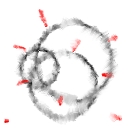
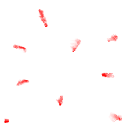
hands

Changed region(s): [[0.125, 0.125, 0.9062, 0.9688]]

diff --git a/Assets/Characters/Player/player.js b/Assets/Characters/Player/player.js
@@ -27,6 +27,14 @@ class Sword extends Dynamic
 
         this.player = player;
 
+        this.idle = true;
+        this.delay = 4;
+        this.delayC = 0;
+        this.frame = 0;
+        this.roS = {x:0,y:0}
+        this.sinRo = Math.PI/3;
+        this.sinRoS = Math.PI/3*2;
+
         this.stabbing = false;
         this.stabbingTime = this.stabbingTimeLeft = 4;
         this.stabCooldown = this.stabCooling = 8;
@@ -211,6 +219,7 @@ class Sword extends Dynamic
 
     charge()
     {
+        this.idle = false;
         if (this.stabCharge < this.maxStabCharge)
         {
             this.stabCharge++;
@@ -385,8 +394,9 @@ class Sword extends Dynamic
             this.t.o = this.st.o = {x:-0.5,y:-1};
             this.justStoppedStabbing = false;
         }
-        this.r = this.player.frozenDirection * 70;
-        this.t.x = this.player.t.x + -this.player.frozenDirection * 64;
+        this.idle = true;
+        this.r = this.player.frozenDirection * 80;
+        this.t.x = this.player.t.x + -this.player.frozenDirection * 160;
         this.t.y = this.player.t.y + 64;
     }
     render()
@@ -420,6 +430,43 @@ class Sword extends Dynamic
 
         if (this.renderMore != undefined)
             this.renderMore();
+    }
+
+    renderMore()
+    {
+        this.ro.y = (Math.sin(this.sinRo)-0.5)*4;
+        this.roS.y = (Math.sin(this.sinRoS)-0.5)*4;
+        this.sinRo+=Math.PI/engine.fps;
+        this.sinRoS+=Math.PI/engine.fps;
+
+        // Hand Shield
+        const transformS = 
+        {
+            x:this.t.x + (this.chargingStab ? 108*this.player.frozenDirection : (this.idle ? 116*this.player.frozenDirection : 0))+this.ro.x,
+            y:this.t.y - (this.chargingStab ? 48 : (this.idle ? -16 : 0))+this.roS.y,
+            w:64/2,
+            h:128/2,
+            o:this.st.o
+        };
+        display.drawImg(currentCtx, transformS, this.player.frameSet[this.frame], this.player.alpha, this.player.r, this.player.flip.x, this.player.flip.y);
+
+        // Hand Sword
+        const transform = 
+        {
+            x:this.t.x + (this.idle ? 216*this.player.frozenDirection : 0),
+            y:this.t.y - (this.idle ? 8 : 32)+this.ro.y,
+            w:64/2,
+            h:128/2,
+            o:this.st.o
+        };
+        display.drawImg(currentCtx, transform, this.player.frameSet[this.frame], this.player.alpha, this.player.r, this.player.flip.x, this.player.flip.y);
+
+        this.delayC++;
+        if (this.delayC == this.delay*engine.fps/30)
+        {
+            this.frame = (this.frame+1)%this.player.frameSet.length;
+            this.delayC = 0;
+        }
     }
 }
 
@@ -665,6 +712,7 @@ class Player extends Physics
     {
         if (this.hp <= 0 && !this.dying)
         {
+            this.dmg(64, {x:0,y:0},true);
             this.Death();
         }
 
@@ -765,7 +813,6 @@ class Player extends Physics
 
         if (this.dying)
         {
-            console.log(this.alpha)
             this.alpha *= 0.99;
             if (this.alpha < 0.1) this.alpha = 0;
             return;

diff --git a/Engine/extra.js b/Engine/extra.js
@@ -67,6 +67,10 @@ class Blood extends Physics
         this.t.w+=this.t.w*size;
         this.t.h+=this.t.h*size;
         this.t.w = this.t.h = this.t.w + (Math.random()-0.5)*this.t.w;
+        this.w = this.t.w*1;
+        this.h = this.t.h*1;
+        this.t.w = 0;
+        this.t.h = 0;
         this.r = Math.random()*360;
         this.alpha = 0.2;
     }
@@ -75,10 +79,17 @@ class Blood extends Physics
     {
         this.gravityMultiplier = 0;
         this.v = {x:0,y:0};
-        this.t.h *= 0.5;
-        this.t.w *= 0.5;
+        this.h *= 0.5;
+        this.w *= 0.5;
         this.active = false;
-        display.drawImg(BLOODCTX, this.t, this.c, this.alpha, this.r, this.flip.x, this.flip.y);
+        display.drawImg(BLOODCTX,
+        {
+            x:this.t.x,
+            y:this.t.y,
+            w:this.w,
+            h:this.h,
+            o:this.t.o
+        }, this.c, this.alpha, this.r, this.flip.x, this.flip.y);
     }
 
     collideTopA({y,h,o})
@@ -99,7 +110,13 @@ class Blood extends Physics
     }
     render()
     {
-        display.drawImg(currentCtx, this.t, this.c, this.alpha, this.r, this.flip.x, this.flip.y);
+        display.drawImg(currentCtx, {
+            x:this.t.x,
+            y:this.t.y,
+            w:this.w,
+            h:this.h,
+            o:this.t.o
+        }, this.c, this.alpha, this.r, this.flip.x, this.flip.y);
     }
 }
 

diff --git a/Engine/engine.js b/Engine/engine.js
@@ -1,4 +1,4 @@
-function drawSword()
+function drawSword(dmg)
 {
     display.drawImg(currentCtx,
         {
@@ -18,7 +18,10 @@ function drawSword()
         h:PLAYER.sword.st.h,
         o:PLAYER.sword.st.o
     }, PLAYER.sword.c, 1, PLAYER.sword.r);
-    display.render(); 
+    display.render();
+
+    display.stacks += 12 * (dmg/500);
+    shakeReset = 32 * (dmg/500);
 }
 
 class Engine
@@ -46,7 +49,7 @@ class Engine
                 this.update();
                 if (this.stopQueued != 0)
                 {
-                    drawSword();
+                    drawSword(this.stopQueued);
                     this.stop();
                     setTimeout(() => {
                         this.start();
@@ -64,7 +67,7 @@ class Engine
                 this.update();
                 if (this.stopQueued != 0)
                 {
-                    drawSword();
+                    drawSword(this.stopQueued);
                     this.stop();
                     setTimeout(() => {
                         this.start();

diff --git a/Assets/Characters/Boss/Maurice/maurice.js b/Assets/Characters/Boss/Maurice/maurice.js
@@ -217,6 +217,7 @@ class Maurice extends Dynamic
         this.enraged = false;
         this.dying = false;
         this.grounded = false;
+        this.firstSlam = false;
         this.gravityMultiplier = 0.01;
 
         this.attackPhase = 0;
@@ -236,6 +237,12 @@ class Maurice extends Dynamic
         this.v.y = 0;
         this.t.y = (y+h*o.y)+this.t.h*this.t.o.y;
         this.grounded = true;
+        if (!this.firstSlam)
+        {
+            display.stacks += 12;
+            shakeReset = 64;
+            this.firstSlam = true;
+        }
     }
 
     update()
@@ -258,6 +265,8 @@ class Maurice extends Dynamic
         if (this.hp <= 0)
         {
             this.dmg(128,{x:0,y:0});
+            display.stacks += 12;
+            shakeReset = 64;
             this.dying = true;
         }
         if (this.hp <= this.maxHp/2 && !this.enraged)

diff --git a/Engine/display.js b/Engine/display.js
@@ -146,14 +146,13 @@ class Display
         this.display.drawImage(currentCtx.canvas,
             0, 0,
             currentCtx.canvas.width, currentCtx.canvas.height,
-            shakePos.x,
-            shakePos.y,
+            shakePos.x, shakePos.y,
             this.display.canvas.width, this.display.canvas.height);
         
         this.display.drawImage(BLOODCTX.canvas,
             0, 0,
             BLOODCTX.canvas.width, BLOODCTX.canvas.height,
-            0, 0,
+            shakePos.x, shakePos.y,
             this.display.canvas.width, this.display.canvas.height);
     }
 }

diff --git a/game.js b/game.js
@@ -46,7 +46,7 @@ PLAYER.name = "player";
 
 function Mauriced()
 {
-    PLAYER.dmg(12, {x:0,y:0},true);
+    PLAYER.dmg(75, {x:0,y:0},true);
 }
 
 document.addEventListener('contextmenu', event => event.preventDefault());
